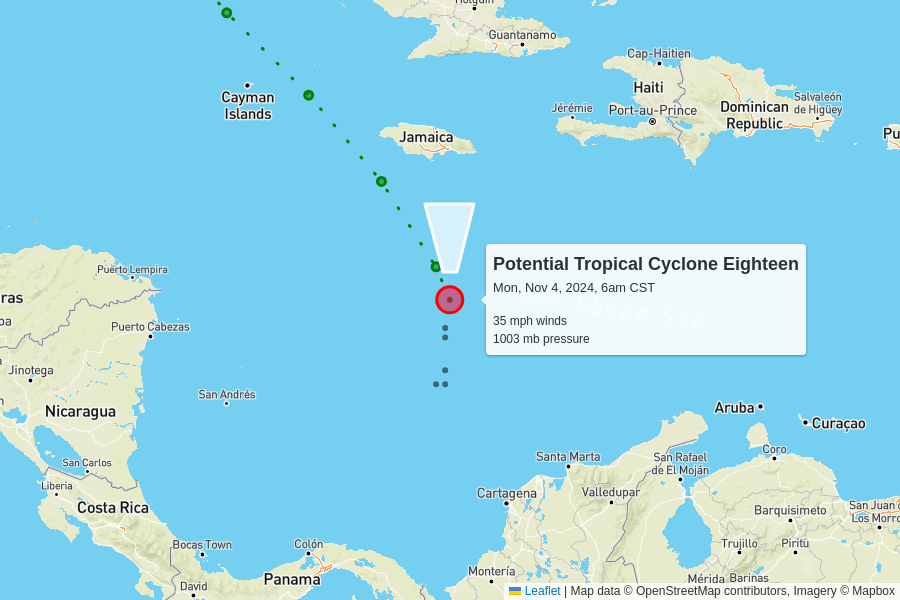
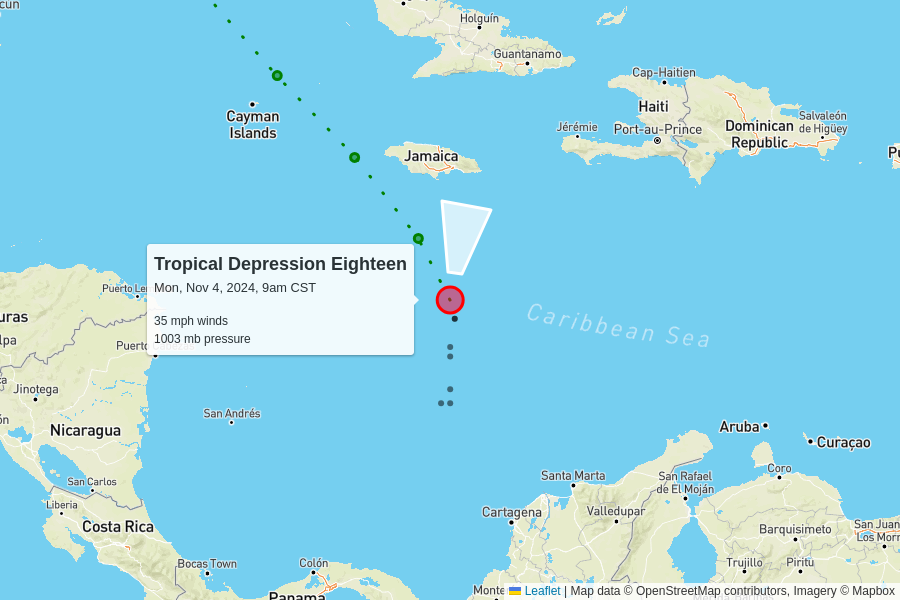
automatic update

diff --git a/docs/index.html b/docs/index.html
@@ -96,15 +96,35 @@
     </p>
 
     
-    <h2>2 active storms</h2>
-    <img src="active.png">
 
     <table>
       <tr>
+        <td colspan="6" class="storm " style="cursor:pointer;" onClick="toggle('AL172024')">
+          <h2>🏁 Patty
+          </h2>
+        </td>
+      </tr>
+      
+      <tr id="storm_AL172024" style="display:none;">
+        <td class="spacer">
+        <td colspan="5">
+          <figure>
+            <img src="AL172024.png">
+            <figcaption>
+              Map data &copy; <a href="https://www.openstreetmap.org/copyright">OpenStreetMap</a> contributors,
+              Imagery &copy; <a href="https://www.mapbox.com/">Mapbox</a> |
+              <a href="https://www.mapbox.com/map-feedback/" target="_blank">Improve this map</a>
+            </figcaption>
+          </figure>
+        </td>
+      </tr>
+      
+
+      <tr>
         <td colspan="6" class="storm category-0" >
           <h2>
-            Potential Tropical Cyclone Eighteen
-            <p class="updated">last updated <span data-time>2024-11-04T12:05:00.000Z</span></p>
+            Tropical Depression Eighteen
+            <p class="updated">last updated <span data-time>2024-11-04T15:00:00.000Z</span></p>
           </h2>
         </td>
       </tr>
@@ -122,9 +142,9 @@
         <td>35 mph<br>0 mph since last update</td>
         <td>1003 mb<br>0 mb since last update</td>
         <td>
-          7 mph to the north
+          9 mph to the north
           <br/>
-          <span style="display: inline-block; font-size: 1.5em; transform: rotate(360deg);">↑</span>
+          <span style="display: inline-block; font-size: 1.5em; transform: rotate(10deg);">↑</span>
         </td>
         <td><a href="https://raw.githubusercontent.com/mgwalker/atlantic-hurricanes/main/data/csv/AL182024.csv">AL182024.csv</a></td>
         <td><a href="https://www.nhc.noaa.gov/archive/2024/EIGHTEEN.shtml?">NHC advisories</a></td>
@@ -134,50 +154,6 @@
         <td colspan="5">
           <figure>
             <img src="AL182024.png">
-            <figcaption>
-              Map data &copy; <a href="https://www.openstreetmap.org/copyright">OpenStreetMap</a> contributors,
-              Imagery &copy; <a href="https://www.mapbox.com/">Mapbox</a> |
-              <a href="https://www.mapbox.com/map-feedback/" target="_blank">Improve this map</a>
-            </figcaption>
-          </figure>
-        </td>
-      </tr>
-      
-
-      <tr>
-        <td colspan="6" class="storm category-0" >
-          <h2>
-            Tropical Storm Patty
-            <p class="updated">last updated <span data-time>2024-11-04T09:00:00.000Z</span></p>
-          </h2>
-        </td>
-      </tr>
-      
-      <tr>
-        <th class="spacer"></th>
-        <th>wind speed</th>
-        <th>central pressure</th>
-        <th>movement</th>
-        <th>data (CSV)</th>
-        <th>National Hurricane Center</th>
-      </tr>
-      <tr>
-        <td class="spacer"></td>
-        <td>40 mph<br>-5 mph since last update</td>
-        <td>996 mb<br>+3 mb since last update</td>
-        <td>
-          20 mph to the east-northeast
-          <br/>
-          <span style="display: inline-block; font-size: 1.5em; transform: rotate(70deg);">↑</span>
-        </td>
-        <td><a href="https://raw.githubusercontent.com/mgwalker/atlantic-hurricanes/main/data/csv/AL172024.csv">AL172024.csv</a></td>
-        <td><a href="https://www.nhc.noaa.gov/archive/2024/PATTY.shtml?">NHC advisories</a></td>
-      </tr>
-      <tr id="storm_AL172024" >
-        <td class="spacer">
-        <td colspan="5">
-          <figure>
-            <img src="AL172024.png">
             <figcaption>
               Map data &copy; <a href="https://www.openstreetmap.org/copyright">OpenStreetMap</a> contributors,
               Imagery &copy; <a href="https://www.mapbox.com/">Mapbox</a> |
